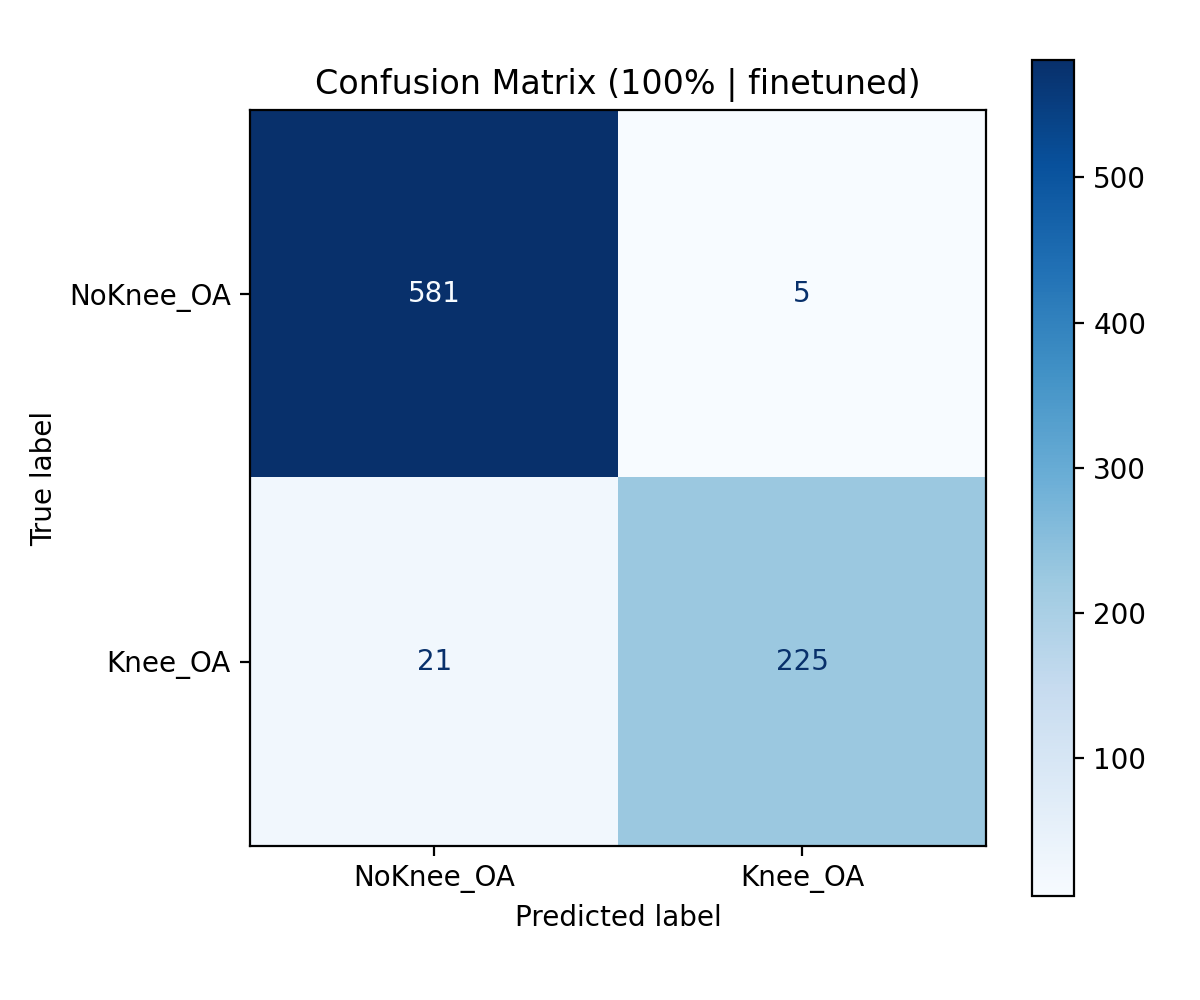
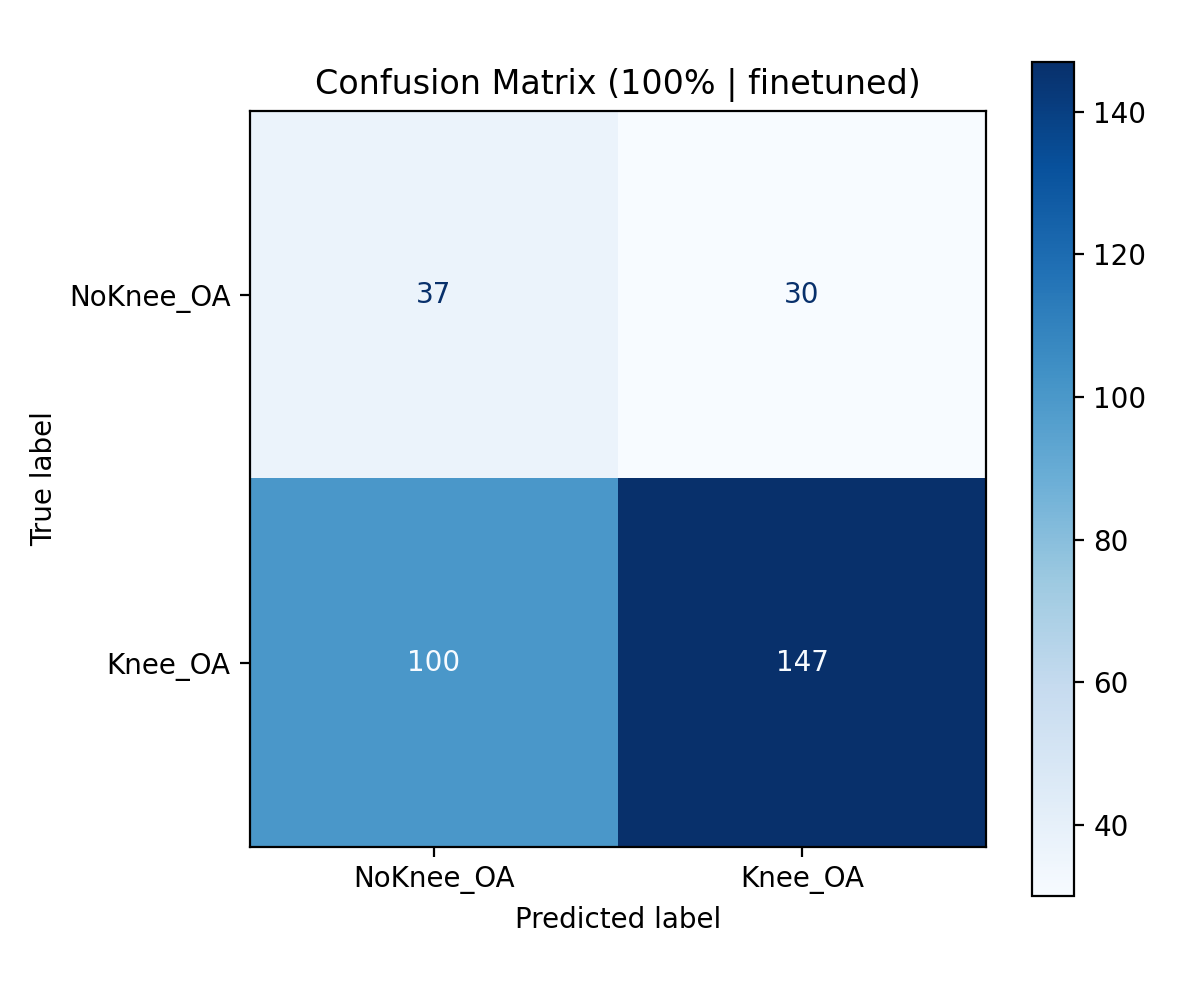
modify results and plots

diff --git a/src/train_dinov2.py b/src/train_dinov2.py
@@ -13,42 +13,51 @@ from torch.utils.data import Dataset, DataLoader
 from sklearn.model_selection import train_test_split
 from sklearn.metrics import (
     accuracy_score,
+    auc,
+    confusion_matrix,
     precision_score,
+    precision_recall_curve,
     recall_score,
     f1_score,
+    roc_curve,
     roc_auc_score,
 )
+from sklearn.metrics import ConfusionMatrixDisplay
+
+import matplotlib.pyplot as plt
 
 import timm
 from timm.data import resolve_data_config
 from timm.data.transforms_factory import create_transform
 
 
-# =====================
-# FORCE GPU 0
-# =====================
 os.environ["CUDA_VISIBLE_DEVICES"] = "0"
 
-if not torch.cuda.is_available():
-    raise RuntimeError("CUDA is not available. Please check your GPU environment.")
-
-DEVICE = torch.device("cuda:0")
+if torch.cuda.is_available():
+    DEVICE = torch.device("cuda:0")
+else:
+    DEVICE = torch.device("cpu")
 
 
 # =====================
 # CONFIG
 # =====================
-DATASET_ROOT = "/home/feg48/hw/Dataset"   
+DATASET_ROOT = str("Dataset")
 MODEL_NAME = "vit_small_patch14_dinov2.lvd142m"
 BATCH_SIZE = 16
-EPOCHS = 15
+EPOCHS = 10
 NUM_WORKERS = 4
 PATIENCE = 5
 SEED = 42
 OUTPUT_DIR = "./dinov2_outputs"
 RESULT_CSV = os.path.join(OUTPUT_DIR, "all_results.csv")
+FIG_ROC = os.path.join(OUTPUT_DIR, "roc_curves.png")
+FIG_PR = os.path.join(OUTPUT_DIR, "precision_recall_curves.png")
+FIG_DATA_EFFICIENCY = os.path.join(OUTPUT_DIR, "data_efficiency.png")
+CM_DIR = os.path.join(OUTPUT_DIR, "confusion_matrices")
 
 os.makedirs(OUTPUT_DIR, exist_ok=True)
+os.makedirs(CM_DIR, exist_ok=True)
 
 
 # =====================
@@ -58,7 +67,8 @@ def set_seed(seed=42):
     random.seed(seed)
     np.random.seed(seed)
     torch.manual_seed(seed)
-    torch.cuda.manual_seed_all(seed)
+    if torch.cuda.is_available():
+        torch.cuda.manual_seed_all(seed)
 
 set_seed(SEED)
 
@@ -192,6 +202,24 @@ def compute_metrics(y_true, y_pred, y_prob):
     return out
 
 
+def collect_predictions(model, loader):
+    model.eval()
+    y_true_all, y_pred_all, y_prob_all = [], [], []
+
+    with torch.no_grad():
+        for images, labels in loader:
+            images = images.to(DEVICE, non_blocking=torch.cuda.is_available())
+            logits = model(images)
+            probs = torch.softmax(logits, dim=1)[:, 1]
+            preds = torch.argmax(logits, dim=1)
+
+            y_true_all.extend(labels.numpy().tolist())
+            y_pred_all.extend(preds.detach().cpu().numpy().tolist())
+            y_prob_all.extend(probs.detach().cpu().numpy().tolist())
+
+    return np.array(y_true_all), np.array(y_pred_all), np.array(y_prob_all)
+
+
 def run_epoch(model, loader, criterion, optimizer=None):
     is_train = optimizer is not None
     model.train() if is_train else model.eval()
@@ -252,26 +280,28 @@ def run_experiment(train_percent, freeze_backbone):
     val_ds = KneeDataset(val_samples, transform=eval_tf)
     test_ds = KneeDataset(test_samples, transform=eval_tf)
 
+    pin_memory = torch.cuda.is_available()
+
     train_loader = DataLoader(
         train_ds,
         batch_size=BATCH_SIZE,
         shuffle=True,
         num_workers=NUM_WORKERS,
-        pin_memory=True,
+        pin_memory=pin_memory,
     )
     val_loader = DataLoader(
         val_ds,
         batch_size=BATCH_SIZE,
         shuffle=False,
         num_workers=NUM_WORKERS,
-        pin_memory=True,
+        pin_memory=pin_memory,
     )
     test_loader = DataLoader(
         test_ds,
         batch_size=BATCH_SIZE,
         shuffle=False,
         num_workers=NUM_WORKERS,
-        pin_memory=True,
+        pin_memory=pin_memory,
     )
 
     model = DINOv2Classifier(MODEL_NAME, dropout=0.3).to(DEVICE)
@@ -336,12 +366,100 @@ def run_experiment(train_percent, freeze_backbone):
 
     model.load_state_dict(best_model)
     test_metrics = run_epoch(model, test_loader, criterion, optimizer=None)
+    test_y_true, test_y_pred, test_y_prob = collect_predictions(model, test_loader)
+    try:
+        fpr, tpr, _ = roc_curve(test_y_true, test_y_prob)
+        precision, recall, _ = precision_recall_curve(test_y_true, test_y_prob)
+        test_metrics["roc_curve"] = {"fpr": fpr.tolist(), "tpr": tpr.tolist()}
+        test_metrics["pr_curve"] = {"precision": precision.tolist(), "recall": recall.tolist()}
+        test_metrics["pr_auc"] = auc(recall, precision)
+        cm = confusion_matrix(test_y_true, test_y_pred)
+        test_metrics["confusion_matrix"] = cm.tolist()
+    except ValueError:
+        test_metrics["roc_curve"] = None
+        test_metrics["pr_curve"] = None
+        test_metrics["pr_auc"] = float("nan")
+        test_metrics["confusion_matrix"] = None
 
     print("Test Results:")
     for k, v in test_metrics.items():
+        if k in {"roc_curve", "pr_curve", "confusion_matrix"}:
+            continue
         print(f"  {k}: {v:.4f}")
 
     return test_metrics
+
+
+def save_confusion_matrices(results_df):
+    for idx, row in results_df.iterrows():
+        cm_data = row.get("confusion_matrix")
+        if isinstance(cm_data, list):
+            cm = np.array(cm_data)
+            data_pct = int(row["data_percent"] * 100)
+            strategy = "frozen" if row["freeze_backbone"] else "finetuned"
+            fig, ax = plt.subplots(figsize=(6, 5))
+            disp = ConfusionMatrixDisplay(confusion_matrix=cm, display_labels=["NoKnee_OA", "Knee_OA"])
+            disp.plot(ax=ax, cmap="Blues")
+            plt.title(f"Confusion Matrix ({data_pct}% | {strategy})")
+            plt.tight_layout()
+            filename = os.path.join(CM_DIR, f"cm_{data_pct}pct_{strategy}.png")
+            plt.savefig(filename, dpi=200)
+            plt.close()
+
+
+def save_curves(results_df):
+    plot_df = results_df.copy()
+    plot_df["strategy"] = plot_df["freeze_backbone"].map({True: "Frozen backbone", False: "Fine-tuned"})
+    save_confusion_matrices(results_df)
+
+    plt.figure(figsize=(7, 6))
+    for _, row in plot_df.iterrows():
+        roc_data = row.get("roc_curve")
+        if isinstance(roc_data, dict):
+            label = f"{int(row['data_percent'] * 100)}% | {row['strategy']} (AUC={row['roc_auc']:.3f})"
+            plt.plot(roc_data["fpr"], roc_data["tpr"], linewidth=2, label=label)
+    plt.plot([0, 1], [0, 1], linestyle="--", color="gray", linewidth=1)
+    plt.xlabel("False Positive Rate")
+    plt.ylabel("True Positive Rate")
+    plt.title("ROC Curves")
+    plt.legend(fontsize=8)
+    plt.tight_layout()
+    plt.savefig(FIG_ROC, dpi=200)
+    plt.close()
+
+    plt.figure(figsize=(7, 6))
+    for _, row in plot_df.iterrows():
+        pr_data = row.get("pr_curve")
+        if isinstance(pr_data, dict):
+            label = f"{int(row['data_percent'] * 100)}% | {row['strategy']} (AP={row['pr_auc']:.3f})"
+            plt.plot(pr_data["recall"], pr_data["precision"], linewidth=2, label=label)
+    plt.xlabel("Recall")
+    plt.ylabel("Precision")
+    plt.title("Precision-Recall Curves")
+    plt.legend(fontsize=8)
+    plt.tight_layout()
+    plt.savefig(FIG_PR, dpi=200)
+    plt.close()
+
+    summary = (
+        plot_df.groupby("data_percent", as_index=False)
+        .agg(accuracy=("accuracy", "mean"), macro_f1=("macro_f1", "mean"), roc_auc=("roc_auc", "mean"))
+        .sort_values("data_percent")
+    )
+
+    plt.figure(figsize=(7, 6))
+    plt.plot(summary["data_percent"] * 100, summary["accuracy"], marker="o", label="Accuracy")
+    plt.plot(summary["data_percent"] * 100, summary["macro_f1"], marker="o", label="Macro-F1")
+    plt.plot(summary["data_percent"] * 100, summary["roc_auc"], marker="o", label="ROC-AUC")
+    plt.xlabel("Training data used (%)")
+    plt.ylabel("Score")
+    plt.title("Data Efficiency")
+    plt.xticks([20, 50, 100])
+    plt.ylim(0, 1)
+    plt.legend()
+    plt.tight_layout()
+    plt.savefig(FIG_DATA_EFFICIENCY, dpi=200)
+    plt.close()
 
 
 # =====================
@@ -349,7 +467,10 @@ def run_experiment(train_percent, freeze_backbone):
 # =====================
 def main():
     print("Using device:", DEVICE)
-    print("GPU name:", torch.cuda.get_device_name(0))
+    if torch.cuda.is_available():
+        print("GPU name:", torch.cuda.get_device_name(0))
+    else:
+        print("GPU name: CPU fallback")
 
     results = []
 
@@ -366,10 +487,16 @@ def main():
             pd.DataFrame(results).to_csv(RESULT_CSV, index=False)
 
     df = pd.DataFrame(results)
+    csv_df = df.drop(columns=["roc_curve", "pr_curve", "confusion_matrix"], errors="ignore")
     print("\n===== Final Results =====")
     print(df)
-    df.to_csv(RESULT_CSV, index=False)
+    csv_df.to_csv(RESULT_CSV, index=False)
+    save_curves(df)
     print(f"\nSaved results to: {RESULT_CSV}")
+    print(f"Saved ROC curves to: {FIG_ROC}")
+    print(f"Saved PR curves to: {FIG_PR}")
+    print(f"Saved data efficiency plot to: {FIG_DATA_EFFICIENCY}")
+    print(f"Saved confusion matrices to: {CM_DIR}")
 
 
 if __name__ == "__main__":

diff --git a/README.md b/README.md
@@ -134,3 +134,136 @@ All experiments use the same architecture and training settings to ensure fair c
 
 ## Conclusion 
 This project investigates the use of vision foundation models for automated knee osteoarthritis detection and evaluates how data availability impacts classification performance in a medical imaging setting. We demonstrate that vision foundation models such as DINOv2 can be effectively applied to medical imaging tasks like knee osteoarthritis classification. Using a frozen backbone with a simple MLP classifier provides strong performance, high stability, and efficient use of limited training data. These findings highlight the practical value of pretrained models in clinical applications where labeled data is limited.
+---
+
+## Introduction
+This project investigates the use of pretrained vision foundation model for automated detection of knee osteoarthritis (OA) from anterior-posterior (AP) radiographs. Specifically, we use a DINOv2 vision transformer to classify images into OA and non-OA categories. We evaluate model performance changes with varying amounts of training data and different adaptation strategies (frozen vs. fine-tuned backbone).
+
+A key focus of this work is evaluating how model performance changes under different data availability conditions, reflecting real-world clinical scenarios where labeled medical data is often limited.
+
+---
+
+## Methods
+
+### Dataset
+The dataset consists of 4,156 AP knee radiographs from 2,655 unique subjects. Each image is labeled using the Kellgren–Lawrence (KL) grading system:
+
+- KL < 2 → No OA
+- KL ≥ 2 → OA
+
+Images are organized into two classes:
+- **Knee OA**
+- **No-Knee OA**
+
+Images are labeled as follows:
+- 0: No OA (KL < 2)
+- 1: OA (KL ≥ 2)
+
+Some subjects have one radiograph (left or right knee), while others have both. To prevent data leakage, all dataset splits (train/validation/test) are performed at the subject level, ensuring that images from the same patient do not appear in multiple splits.
+
+---
+
+### Preprocessing
+- Images resized to 224 × 224
+- Normalized using ImageNet-based statistics
+- Data augmentation applied during training
+
+---
+
+### Model
+- Backbone: DINOv2 Vision Transformer (ViT)
+- Classifier: MLP (Linear → ReLU → Dropout → Linear)
+
+---
+
+### Training
+- Loss function: Cross-Entropy (with class weights)
+- Optimizer: AdamW
+- Batch size: 16
+- Epochs: up to 15
+- Early stopping based on validation Macro-F1
+
+---
+
+### Evaluation Metrics
+- Accuracy
+- Precision
+- Recall
+- F1-score
+- Macro-F1
+- ROC-AUC
+
+---
+
+## Experimental Setup
+We evaluate model performance under three data availability settings:
+
+- 20% training data (low-data availability)
+- 50% training data (moderate-data availability)
+- 100% training data (full-data availability)
+
+Each experiment also evaluates two adaptation strategies:
+- Frozen (feature extraction)
+- Fine-tuned (full model training)
+
+All experiments use the same architecture and training settings to ensure fair comparison across conditions.
+
+---
+
+## Results
+
+### Overall performance table:
+| Data % | Backbone | Accuracy | Precision | Recall | F1-score | Macro-F1 | ROC-AUC |
+|--------|----------|----------|-----------|--------|----------|----------|---------|
+| 20%    | Frozen   | 0.8654   | 0.8941    | 0.6179 | 0.7308   | 0.8205   | 0.9188  |
+| 20%    | Finetune | 0.5745   | 0.3043    | 0.3415 | 0.3218   | 0.5059   | 0.5047  |
+| 50%    | Frozen   | 0.8918   | 0.8939    | 0.7195 | 0.7973   | 0.8618   | 0.9330  |
+| 50%    | Finetune | 0.5974   | 0.3308    | 0.3537 | 0.3418   | 0.5259   | 0.5516  |
+| 100%   | Frozen   | 0.8930   | 0.8945    | 0.7236 | 0.8000   | 0.8635   | 0.9305  |
+| 100%   | Finetune | 0.5697   | 0.3170    | 0.3943 | 0.3514   | 0.5148   | 0.5225  |
+
+### Key Observations
+
+- Frozen backbone models consistently outperform fine-tuned models across all data regimes.
+- Performance improves substantially from 20% to 50% of the data, with only small gains from 50% to 100%.
+- Fine-tuning leads to unstable training and significantly worse performance, particularly in low-data settings.
+
+### Figures
+
+- **ROC Curves** - Performance comparison across data regimes and adaptation strategies
+![ROC Curves](dinov2_outputs/roc_curves.png)
+
+- **Data Efficiency** - How model performance scales with training data availability
+![Data Efficiency](dinov2_outputs/data_efficiency.png)
+
+- **Precision-Recall Curves** - Trade-off between precision and recall for each configuration
+![PR Curves](dinov2_outputs/precision_recall_curves.png)
+
+- **Confusion Matrices** - Per-configuration classification results
+  - [20% Frozen](dinov2_outputs/confusion_matrices/cm_20pct_frozen.png)
+  - [20% Fine-tuned](dinov2_outputs/confusion_matrices/cm_20pct_finetuned.png)
+  - [50% Frozen](dinov2_outputs/confusion_matrices/cm_50pct_frozen.png)
+  - [50% Fine-tuned](dinov2_outputs/confusion_matrices/cm_50pct_finetuned.png)
+  - [100% Frozen](dinov2_outputs/confusion_matrices/cm_100pct_frozen.png)
+  - [100% Fine-tuned](dinov2_outputs/confusion_matrices/cm_100pct_finetuned.png)
+
+---
+
+## Discussion
+
+1. **Data Efficiency**
+- Model performance improves significantly from 20% to 50% of the dataset, with smaller gains from 50% to 100%. This suggests that the pretrained DINOv2 model is relatively data-efficient when using pretrained features and the optimal percent is closer to 50% than 100%.
+
+2. **Model Behavior**
+- Across all dataset sizes, the model performs well when using frozen backbone, indicating that pretrained features generalize effectively to knee OA classification. Performance remains strong even in the low-data setting, suggesting the learned representations from DINOv2 are highly transferable to this medical imaging task.
+
+3. **Adaptation Strategy**
+- Fine-tuning the full model does not improve performance and leads to instability and poor generalization. This is likely due to the smaller dataset size and overfitting of the model. Lower accuracy, F1-score, and ROC-AUC were observed across all data settings.
+
+4. **Stability**
+- The frozen backbone configuration is significantly more stable across training runs and dataset sizes. It produces consistent and high-performing results. In comparison, fine-tuning leads to unstable training behavior and poor generalization especially in the low-data run.
+
+---
+
+## Conclusion 
+This project investigates the use of vision foundation models for automated knee osteoarthritis detection and evaluates how data availability impacts classification performance in a medical imaging setting. We demonstrate that vision foundation models such as DINOv2 can be effectively applied to medical imaging tasks like knee osteoarthritis classification. Using a frozen backbone with a simple MLP classifier provides strong performance, high stability, and efficient use of limited training data. These findings highlight the practical value of pretrained models in clinical applications where labeled data is limited.
